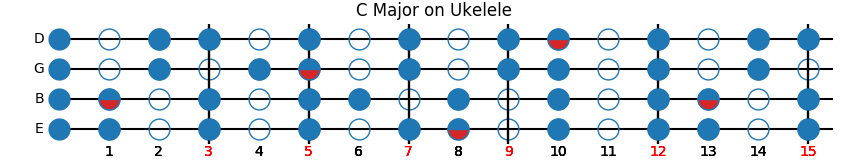
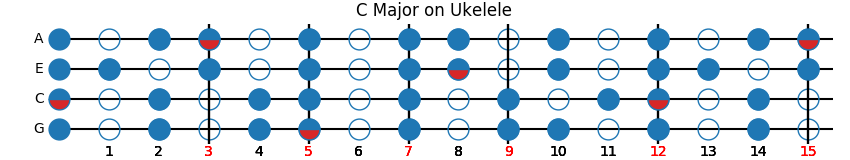
Fix uke tuning in README

diff --git a/scales.py b/scales.py
@@ -82,7 +82,7 @@ if __name__ == '__main__':
     six_string.draw(start=11, stop=15)
 
     c_major = ['C', 'D', 'E', 'F', 'G', 'A', 'B']
-    ukelele = Scales(title='C Major on Ukelele', strings=['E', 'B', 'G', 'D'], scale=c_major)
+    ukelele = Scales(title='C Major on Ukelele', strings=['G', 'C', 'E', 'A'], scale=c_major)
     ukelele.draw()
 
     g_chord = ['G', 'B', 'D']

diff --git a/README.md b/README.md
@@ -22,7 +22,7 @@ By default, it will assume a 6 string guitar in standard tuning, but you can spe
 
 ```py
 c_major = ['C', 'D', 'E', 'F', 'G', 'A', 'B']
-ukelele = Scales(title='C Major', strings=['E', 'B', 'G', 'D'], scale=c_major)
+ukelele = Scales(title='C Major on Ukelele', strings=['G', 'C', 'E', 'A'], scale=c_major)
 ukelele.draw()
 ```
 
